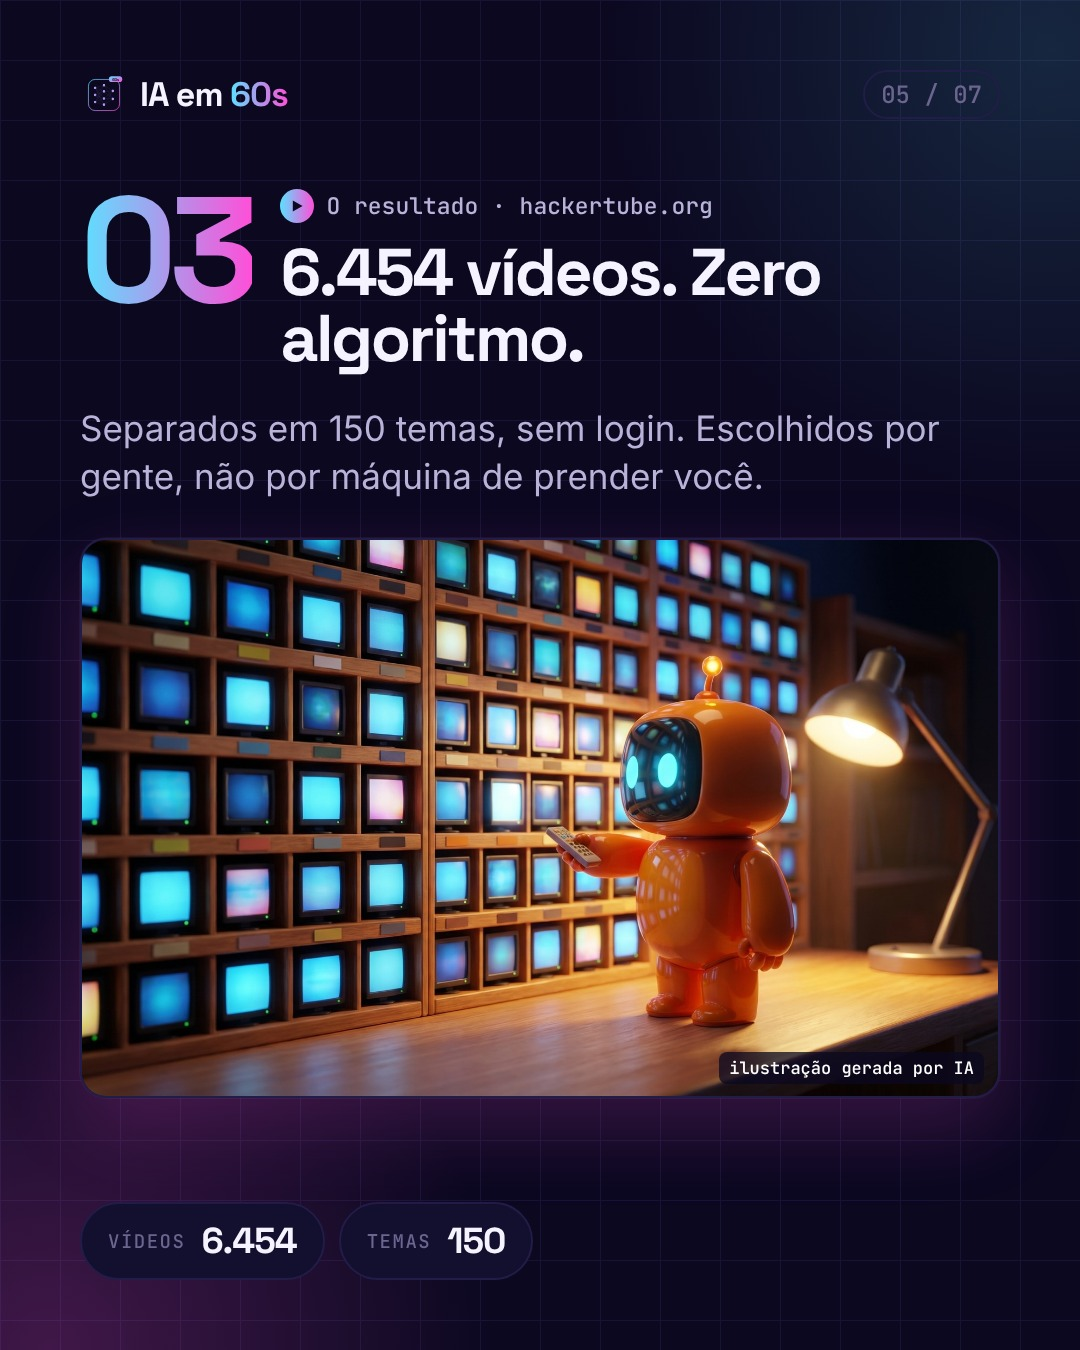
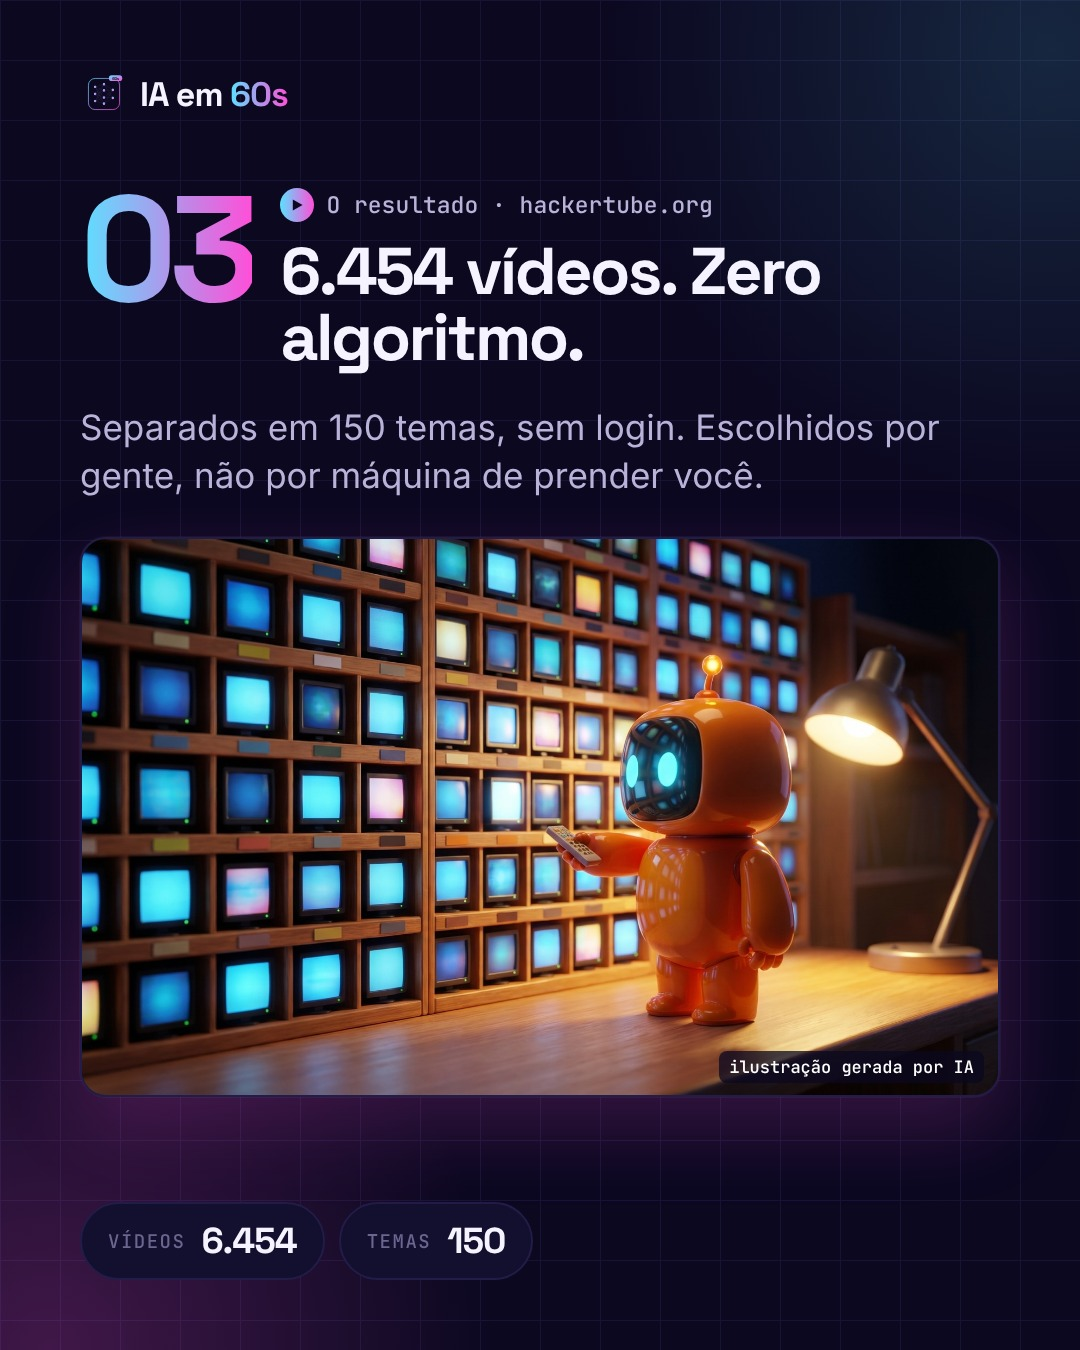
Sem numeração para o público: tira contador de páginas dos carrosséis e selo contador dos vídeos
Claude-Session: https://claude.ai/code/session_01Q8XwFnQBBAwLjPpJcLpgWt

diff --git a/ia/lista.js b/ia/lista.js
@@ -59,7 +59,7 @@ const LOGO = fs.readFileSync(path.join(__dirname, "logo.svg"), "utf8");
 const mark = (s) => LOGO.replace(/#5CE1FF/g, C.c1).replace(/#FF4FD8/g, C.c2).replace(/#0B0820/g, C.bg)
   .replace(/id="g"/g, `id="g${s}"`).replace(/url\(#g\)/g, `url(#g${s})`).replace(/id="glow"/g, `id="gl${s}"`).replace(/url\(#glow\)/g, `url(#gl${s})`)
   .replace('width="1080" height="1080"', `width="${s}" height="${s}"`);
-const top = (i) => `<div class="top"><div class="logo">${mark(48)}<span>IA em <span class="g">60s</span></span></div><span class="count">${String(i).padStart(2, "0")} / ${String(N).padStart(2, "0")}</span></div>`;
+const top = (i) => `<div class="top"><div class="logo">${mark(48)}<span>IA em <span class="g">60s</span></span></div></div>`; // sem numeração de páginas (decisão do Vitor, 04/11)
 const page = (inner, glows = "") => `<!doctype html><html><head><meta charset="utf-8"><style>${css}</style></head><body><div class="bg"></div>${glows}<div class="wrap">${inner}</div></body></html>`;
 const glow = (x, y, c, a = .28) => `<div class="glow" style="left:${x}px;top:${y}px;background:radial-gradient(closest-side,${c}${Math.round(a * 255).toString(16)},transparent)"></div>`;
 

diff --git a/ia/video/compor.py b/ia/video/compor.py
@@ -4,7 +4,7 @@
 #   clipes.json: {"<cena>": {"arquivo": "caminho.mp4", "ini": 0.4}, ...}  (ini = segundos a pular no começo do clipe,
 #   p.ex. quando o modelo abre com a imagem de referência). Sem clipes.json: pasta_out/clipes/<cena>.mp4, ini 0.
 # O que faz: corta cada clipe na duração do seu segmento (t0 até o t0 do próximo), emenda em corte seco, descarta o áudio
-# dos clipes, e põe por cima: etiqueta (campo tag) no topo, selo contador (1/7…) no canto, legenda palavra por palavra no
+# dos clipes, e põe por cima: etiqueta (campo tag) no topo, legenda palavra por palavra no
 # terço inferior (palavra atual destacada; nunca fica vazia) e "COMENTA <CHAVE>" no último segmento. Depois mixa voz +
 # trilha (sidechain, baixa) + efeitos, loudnorm -14 LUFS (mesmo filtro do montar.sh).  Saída: pasta_out/reel.mp4 (1080x1920, 30 fps).
 import json, os, sys, subprocess, re, shutil
@@ -62,11 +62,7 @@ def quadro(k, b, i):
     sh = Image.new("RGBA", (W, H), (0, 0, 0, 0)); ds = ImageDraw.Draw(sh)
     caixa_texto(ds, (W / 2 + 6, 190), tag, ft, (0, 0, 0, 0), (0, 0, 0, 110))
     im.alpha_composite(sh); caixa_texto(d, (W / 2, 184), tag, ft, TINTA, CREME + (255,))
-    # selo contador no canto superior direito
-    fs = fonte(F_TAG, 46); txt = f"{k + 1}/{N}"; cx, cy, rr = W - 118, 330, 66
-    d.ellipse([cx - rr + 5, cy - rr + 7, cx + rr + 5, cy + rr + 7], fill=(0, 0, 0, 110))
-    d.ellipse([cx - rr, cy - rr, cx + rr, cy + rr], fill=LARANJA + (255,), outline=CREME + (255,), width=6)
-    d.text((cx, cy), txt, font=fs, fill=(255, 255, 255), anchor="mm")
+    # sem selo contador (decisão do Vitor, 04/11: numeração não aparece para o público)
     # CTA no último segmento
     if k == N - 1:
         # numa linha só, abaixo da legenda (CTA_Y), para não cobrir o rosto do mascote

diff --git a/ia/AGENTE.md b/ia/AGENTE.md
@@ -70,6 +70,7 @@ Pesquisa completa: https://claude.ai/artifact/8D6Jdk8PsD8wsX8FBktFTQ
 - Prioridade: o que o brasileiro comum entende e salva (ferramentas grátis, "como usar", curiosidades) acima de bastidores de mercado.
 
 ## Estrutura de carrossel que viraliza (padrão obrigatório)
+**Sem numeração para o público (decisão do Vitor, 04/11):** nada de contador de páginas ("01 / 07") nos slides nem selo contador ("1/7") nos vídeos.
 Base: carrosséis e Reels que o Vitor mandou como referência (@matheustilli, @clubedasskills, _aighostlab, leo.sena97). Antes de escrever, releia 2–3 exemplos de `referencias.md` do mesmo tipo de post e copie o **padrão**, nunca o texto.
 1. **Pág. 1 – gancho:** promessa concreta com número ou resultado ("5 skills que fazem o Claude trabalhar por você", "O Claude agora refaz qualquer app"). Até 8 palavras no título, uma imagem que mostra o assunto, nada de pergunta vaga.
 2. **Pág. 2 – a dor:** o problema que o público sente, na língua dele ("Se você pede direto no chat, ele entrega genérico"). Use o campo `dor` do post.json: `{"kick": "O PROBLEMA", "title": "...", "body": "...", "carimbo": "GENÉRICO"}` (carimbo opcional).
@@ -109,9 +110,9 @@ Para cada conteúdo:
 - **YouTube está pausado (decisão do Vitor, 02/11):** publique só no Instagram e no TikTok. Não agende nada no YouTube até ele pedir de volta.
 
 ## Reels animados (com aprovação)
-Formato de 25–35 s, no estilo das referências em `referencias.md` (mascote em cenário 3D contínuo, uma cena nova a cada frase, etiqueta no topo, selo contador no canto, legenda palavra por palavra, "COMENTA PALAVRA" no fim). Para checagem de boato use o estilo colagem em papel (4º exemplo).
+Formato de 25–35 s, no estilo das referências em `referencias.md` (mascote em cenário 3D contínuo, uma cena nova a cada frase, etiqueta no topo, legenda palavra por palavra, "COMENTA PALAVRA" no fim). Para checagem de boato use o estilo colagem em papel (4º exemplo).
 **Roteiro:** gancho de notícia ou resultado → o que é → como funciona com números reais → como usar no Claude → chamada. ~3 palavras/s, frases curtas, uma frase = uma cena. Nada inventado: cada número com 2 fontes; sem fonte, sem número.
-**Teto de custo (decisão do Vitor, 03/11): cada vídeo animado custa no máximo US$ 0,50.** O 1º vídeo (cenas geradas pelo Gemini Omni) custou ~US$ 5,70 e foi considerado caro demais. Daqui em diante: **nada de vídeo gerado por IA (Omni/Veo)** sem autorização expressa do Vitor. Monte as cenas com **imagens do Nano Banana** (1 por cena, ~US$ 0,04 cada, sempre com `posts/2026-11-03-curriculo-ia/mascote.jpg` como referência para manter o mesmo mascote) animadas no `video/compor.py`: zoom e deslize lentos, parallax (mascote recortado sobre o fundo), objetos entrando com mola, partículas, tremor nos impactos, efeitos sonoros e a mesma legenda/etiqueta/contador. Voz Puck (~US$ 0,02). Registre o custo no `relatorio.txt` de cada vídeo.
+**Teto de custo (decisão do Vitor, 03/11): cada vídeo animado custa no máximo US$ 0,50.** O 1º vídeo (cenas geradas pelo Gemini Omni) custou ~US$ 5,70 e foi considerado caro demais. Daqui em diante: **nada de vídeo gerado por IA (Omni/Veo)** sem autorização expressa do Vitor. Monte as cenas com **imagens do Nano Banana** (1 por cena, ~US$ 0,04 cada, sempre com `posts/2026-11-03-curriculo-ia/mascote.jpg` como referência para manter o mesmo mascote) animadas no `video/compor.py`: zoom e deslize lentos, parallax (mascote recortado sobre o fundo), objetos entrando com mola, partículas, tremor nos impactos, efeitos sonoros e a mesma legenda/etiqueta. Voz Puck (~US$ 0,02). Registre o custo no `relatorio.txt` de cada vídeo.
 **Como carregar a chave do Gemini (sempre, antes de usar):** se a variável `GEMINI_API_KEY` não existir, leia-a do banco D1 privado do Vitor no Cloudflare com a ferramenta `d1_database_query` (conector Cloudflare): `database_id = 0af07c6b-d69c-44e5-8b01-a1e055303c68`, SQL `SELECT valor FROM segredos WHERE nome = 'GEMINI_API_KEY'`. Grave só em `~/.secrets/gemini.env` (`export GEMINI_API_KEY=...`, `chmod 600`) e rode `. ~/.secrets/gemini.env` antes dos scripts. Nunca imprima a chave, nunca a coloque em arquivo do repositório, legenda, commit ou mensagem.
 **Plataforma única: Google Gemini (decisão do Vitor, 02/11).** Voz, imagem e vídeo saem da mesma chave, na variável de ambiente `GEMINI_API_KEY` (**nunca grave a chave em arquivo do repositório**; o repositório é público). Voz: Gemini TTS, voz **Puck** (escolhida pelo Vitor em 02/11; `video/tts_gemini.py`, tom no campo `estilo` do roteiro; o Whisper mede o tempo das palavras). Imagem: Nano Banana. Vídeo: Gemini Omni Flash (mascote por imagem de referência). A ElevenLabs não é mais usada; os efeitos em `video/sfx/` continuam valendo. Sem a chave: voz reserva grátis (`bash video/prepara_kokoro.sh` e `python3 video/tts_kokoro.py roteiro.json pasta`, com "Clód" no lugar de "Claude") e avise o Vitor no resumo.
 **Passo a passo** (pasta `ia/video/`):
